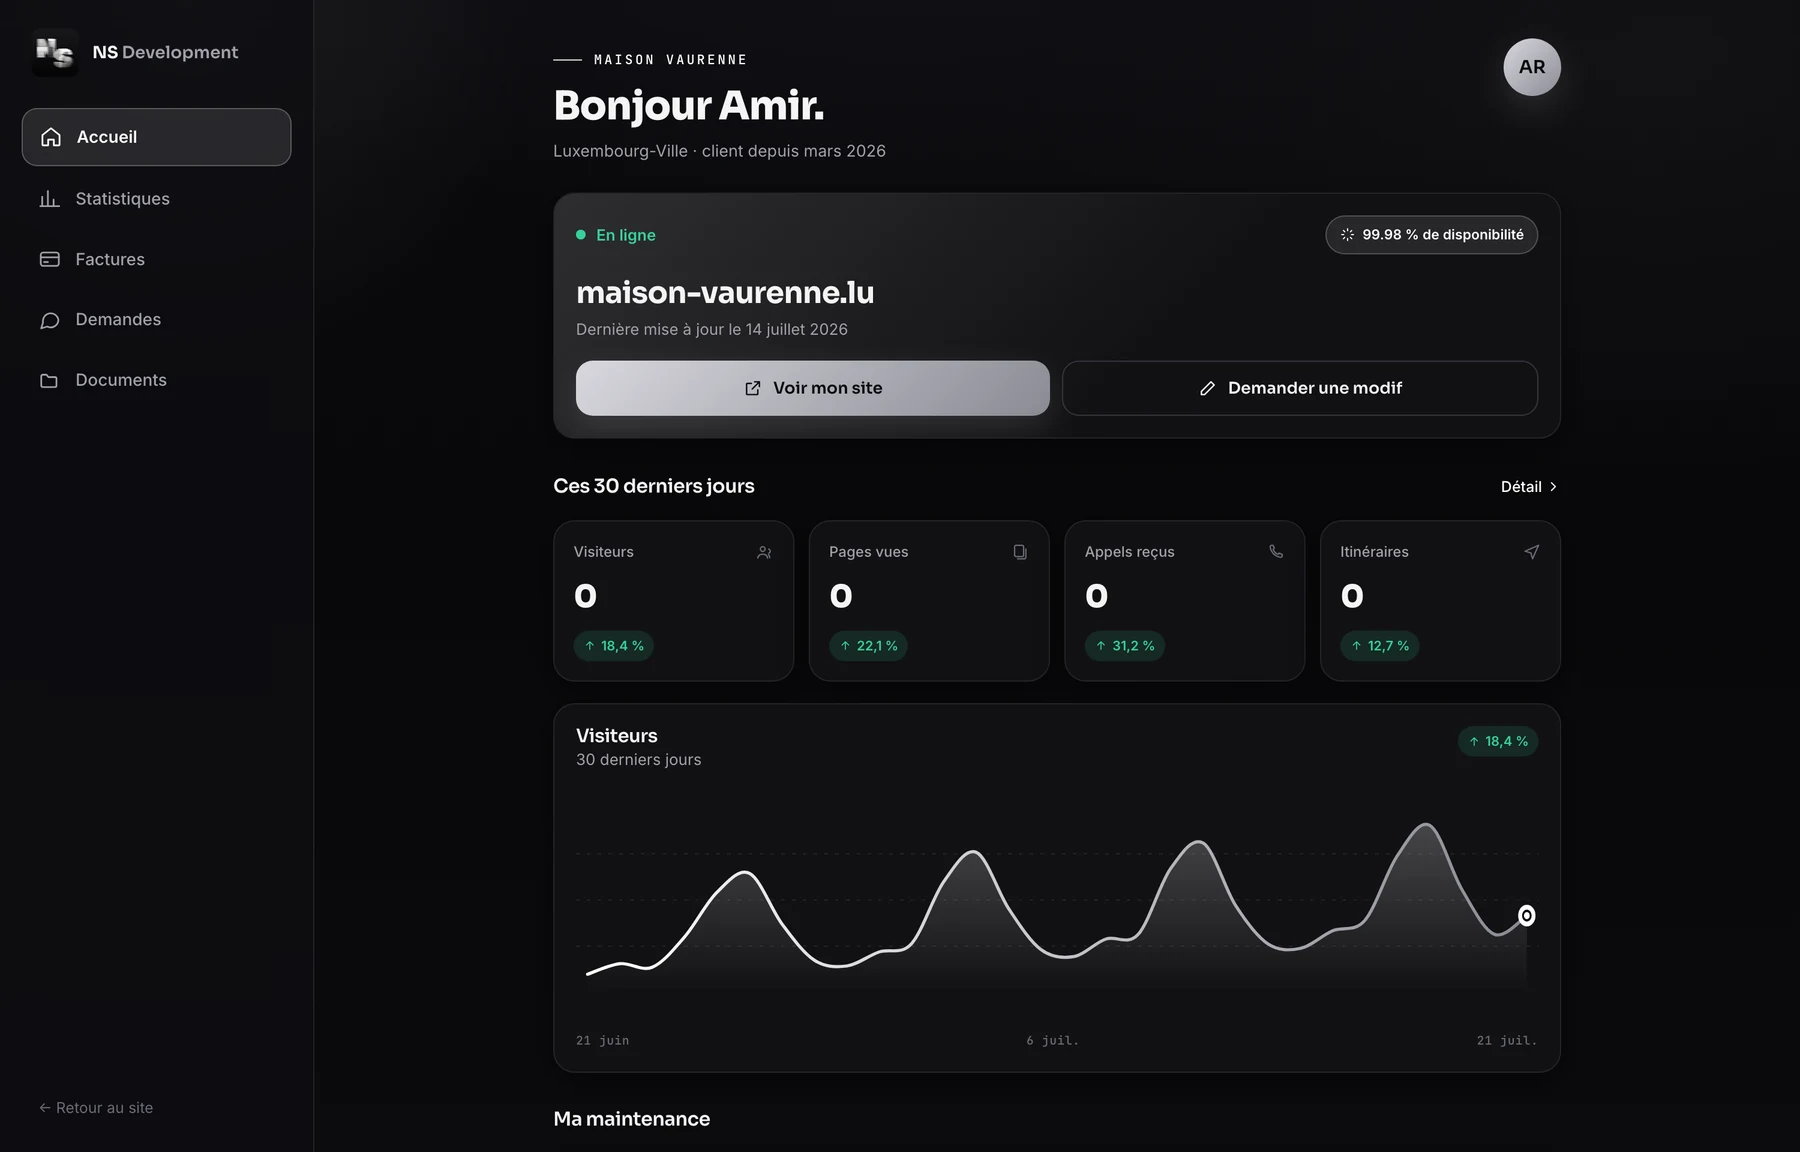
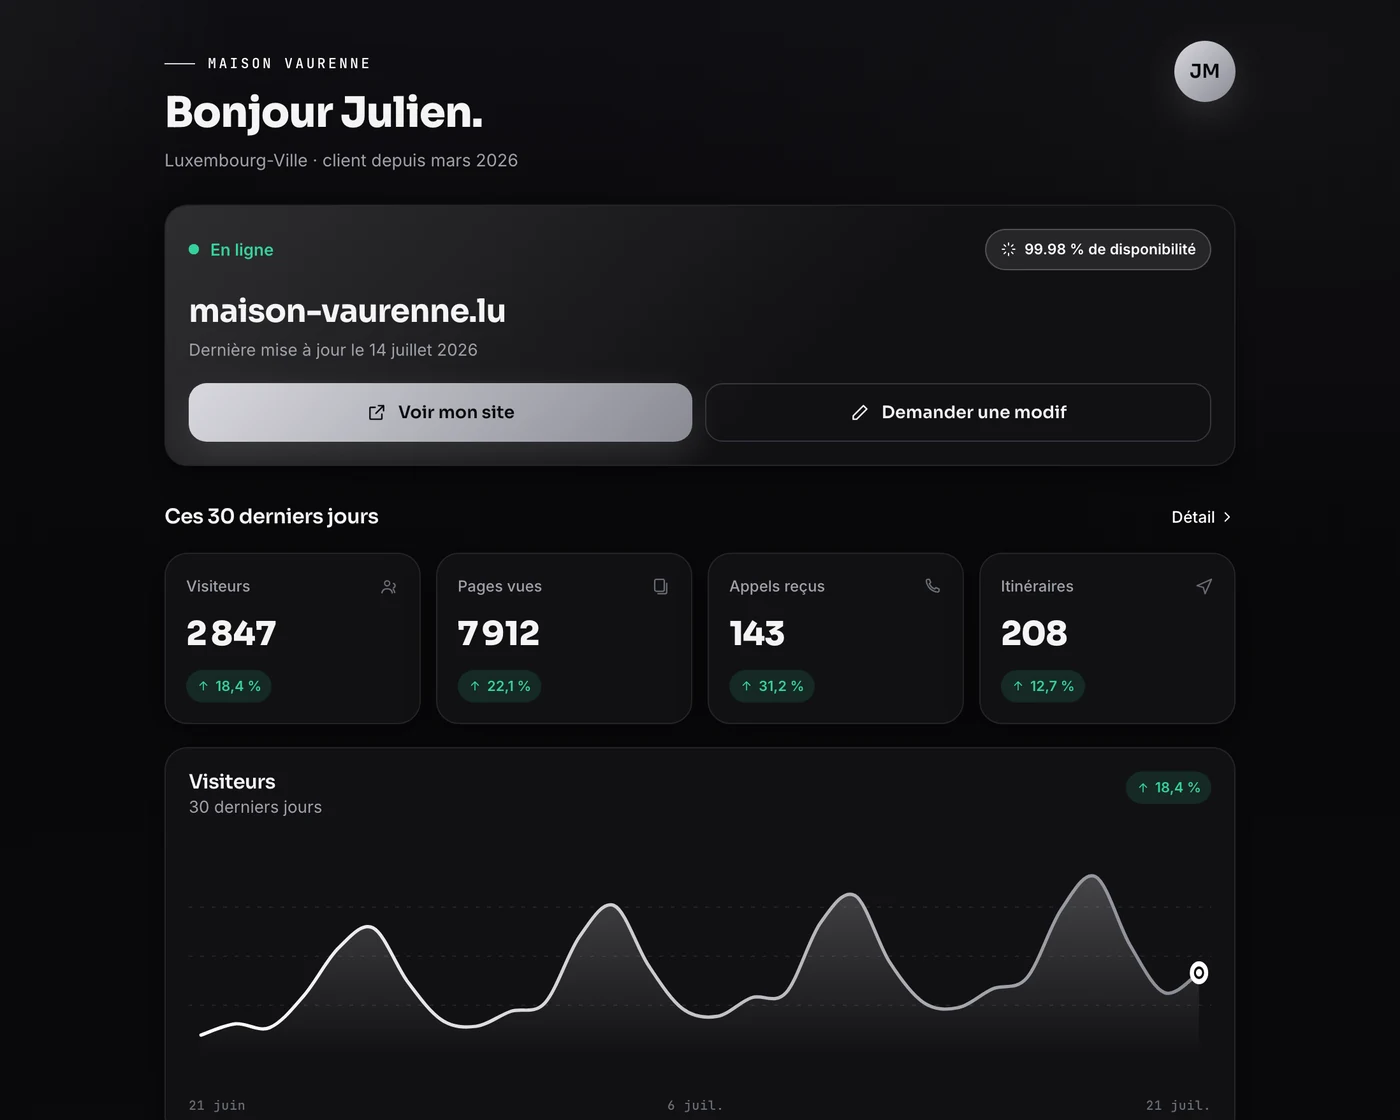
Vitrine et démos — mise à jour du 01/09/2026 à 21:22

diff --git a/index.html b/index.html
@@ -369,8 +369,8 @@
   /* ESPACE CLIENT — la section qui explique à quoi sert l'abonnement.
      L'aperçu déborde volontairement à droite : on montre un vrai écran,
      pas une vignette centrée qui ferait « illustration ». */
-  #espace{background:var(--bg2);border-top:1px solid var(--line);border-bottom:1px solid var(--line);overflow:hidden}
-  .ec-grid{display:grid;grid-template-columns:1fr .95fr;gap:56px;align-items:center}
+  #espace{background:var(--bg2);border-top:1px solid var(--line);border-bottom:1px solid var(--line)}
+  .ec-grid{display:grid;grid-template-columns:1fr .82fr;gap:60px;align-items:center}
   .ec-grid > div:first-child{max-width:560px;min-width:0}
   .ec-grid p{color:var(--soft);font-size:15.5px}
   .ec-points{display:grid;grid-template-columns:1fr 1fr;gap:20px 26px;margin:28px 0 30px}
@@ -379,14 +379,21 @@
   .ec-cta{display:flex;flex-direction:column;align-items:flex-start;gap:12px}
   .ec-note{font-size:12.5px;color:var(--muted);line-height:1.6;max-width:42ch}
   .ec-vue{position:relative;min-width:0}
-  .ec-vue::before{content:"";position:absolute;inset:-14%;z-index:0;border-radius:40px;
+  .ec-vue::before{content:"";position:absolute;inset:-12%;z-index:0;border-radius:40px;
     background:radial-gradient(60% 55% at 50% 40%,var(--glow),transparent 72%);filter:blur(40px)}
-  .ec-vue img{position:relative;width:126%;max-width:none;border-radius:16px;
-    border:1px solid var(--line2);box-shadow:0 40px 90px rgba(0,0,0,.62)}
+  /* Un châssis plutôt qu'une capture nue : l'aperçu se lit alors comme un
+     écran, il est cadré, et il n'a plus besoin de déborder pour exister. */
+  .ec-fenetre{position:relative;border-radius:15px;overflow:hidden;background:var(--card);
+    border:1px solid var(--line2);box-shadow:0 34px 80px rgba(0,0,0,.6)}
+  .ec-barre{display:flex;align-items:center;gap:7px;padding:11px 14px;
+    background:var(--card2);border-bottom:1px solid var(--line)}
+  .ec-barre i{width:9px;height:9px;border-radius:50%;background:var(--line2);flex:none}
+  .ec-barre span{margin-left:9px;font-family:var(--mono);font-size:10.5px;letter-spacing:.06em;
+    color:var(--muted);white-space:nowrap;overflow:hidden;text-overflow:ellipsis}
+  .ec-fenetre img{display:block;width:100%;height:auto}
   @media(max-width:980px){
     .ec-grid{grid-template-columns:1fr;gap:36px}
     .ec-grid > div:first-child{max-width:none}
-    .ec-vue img{width:100%}
   }
   @media(max-width:560px){.ec-points{grid-template-columns:1fr;gap:18px}}
 
@@ -752,8 +759,11 @@
       </div>
 
       <div class="ec-vue" data-reveal="scale" data-delay="180">
-        <img src="assets/espace-client-apercu.webp?v=2" width="1800" height="1152" loading="lazy" decoding="async"
-             alt="Aperçu de l'espace client : visiteurs, pages vues, appels reçus et courbe de fréquentation">
+        <div class="ec-fenetre">
+          <div class="ec-barre" aria-hidden="true"><i></i><i></i><i></i><span>espace-client · maison-vaurenne.lu</span></div>
+          <img src="assets/espace-client-apercu.webp?v=5" width="1400" height="1120" loading="lazy" decoding="async"
+               alt="Aperçu de l'espace client : visiteurs, pages vues, appels reçus et courbe de fréquentation">
+        </div>
       </div>
     </div>
   </div>

diff --git a/espace-client.js b/espace-client.js
@@ -14,10 +14,10 @@
   /* ---------------------------------------------------------- */
 
   var CLIENT = {
-    prenom: "Amir",
-    nom: "Rahman",
+    prenom: "Julien",
+    nom: "Mercier",
     etablissement: "Maison Vaurenne",
-    metier: "Restaurant indien",
+    metier: "Restaurant gastronomique",
     ville: "Luxembourg-Ville",
     site: "maison-vaurenne.lu",
     depuis: "client depuis mars 2026",
@@ -64,10 +64,10 @@
   ];
 
   var MOTS_CLES = [
-    { mot: "restaurant indien luxembourg", position: 2, evolution: 3 },
-    { mot: "tandoori luxembourg", position: 1, evolution: 0 },
+    { mot: "restaurant gastronomique luxembourg", position: 2, evolution: 3 },
+    { mot: "menu dégustation luxembourg", position: 1, evolution: 0 },
     { mot: "restaurant luxembourg centre", position: 7, evolution: 4 },
-    { mot: "où manger indien luxembourg", position: 4, evolution: -1 }
+    { mot: "où bien manger luxembourg", position: 4, evolution: -1 }
   ];
 
   var FACTURES = [

diff --git a/espace-client.html b/espace-client.html
@@ -20,7 +20,7 @@
 <link href="https://fonts.googleapis.com/css2?family=Sora:wght@600;700;800&family=Inter:wght@300;400;500;600&family=JetBrains+Mono:wght@500;700&display=swap" rel="stylesheet">
 <link rel="stylesheet" href="ns-motion.css">
 <script type="module" src="supabase-client.js?v=1"></script>
-<script src="espace-client.js?v=8" defer></script>
+<script src="espace-client.js?v=9" defer></script>
 <script src="ns-motion.js" defer></script>
 <style>
   *,*::before,*::after{box-sizing:border-box;margin:0;padding:0}
